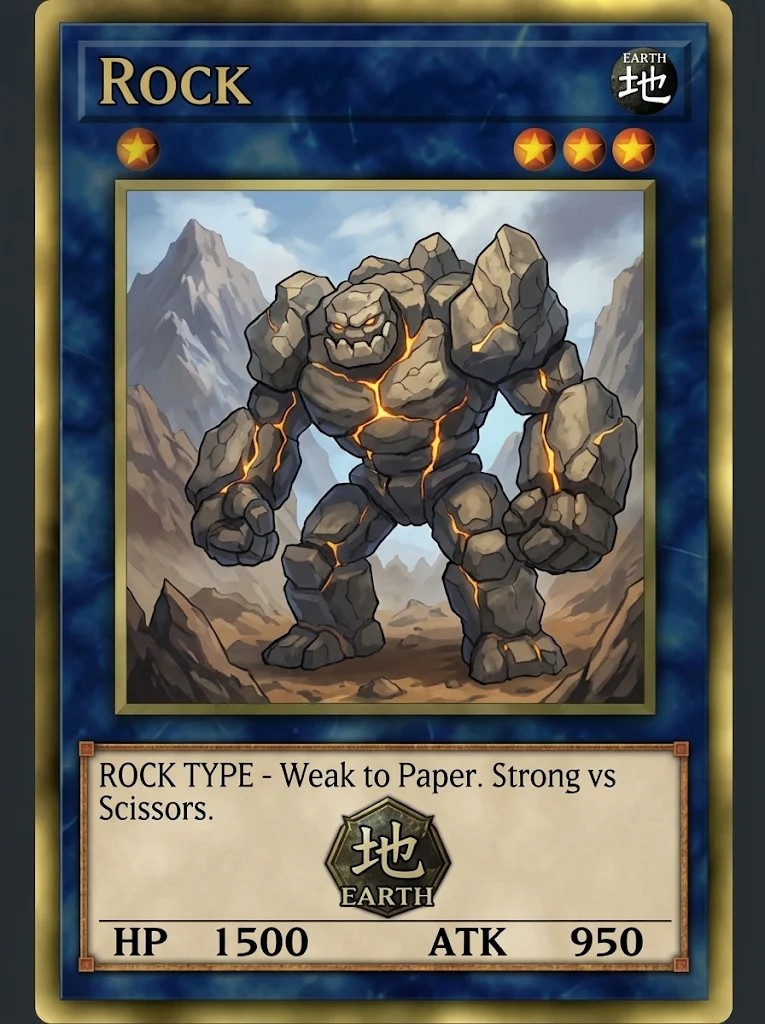
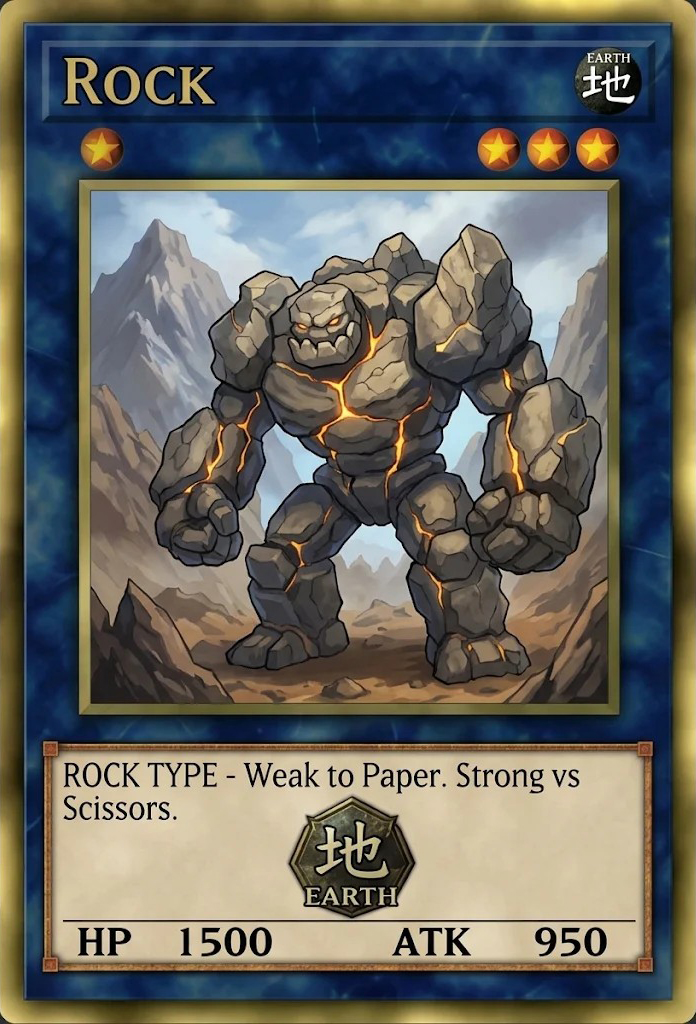
fix: correct outline style and add missing newline in CSS

diff --git a/index.css b/index.css
@@ -4,6 +4,10 @@
   box-sizing: border-box;
 }
 
+* {
+outline: 2px solid blue;}
+
+
 body {
   background-image: url(images/table.webp);
   background-size: cover;
@@ -74,5 +78,5 @@ body {
 }
 
 .card-artwork img {
-  width: 60%;
+  width: 60%
 }
